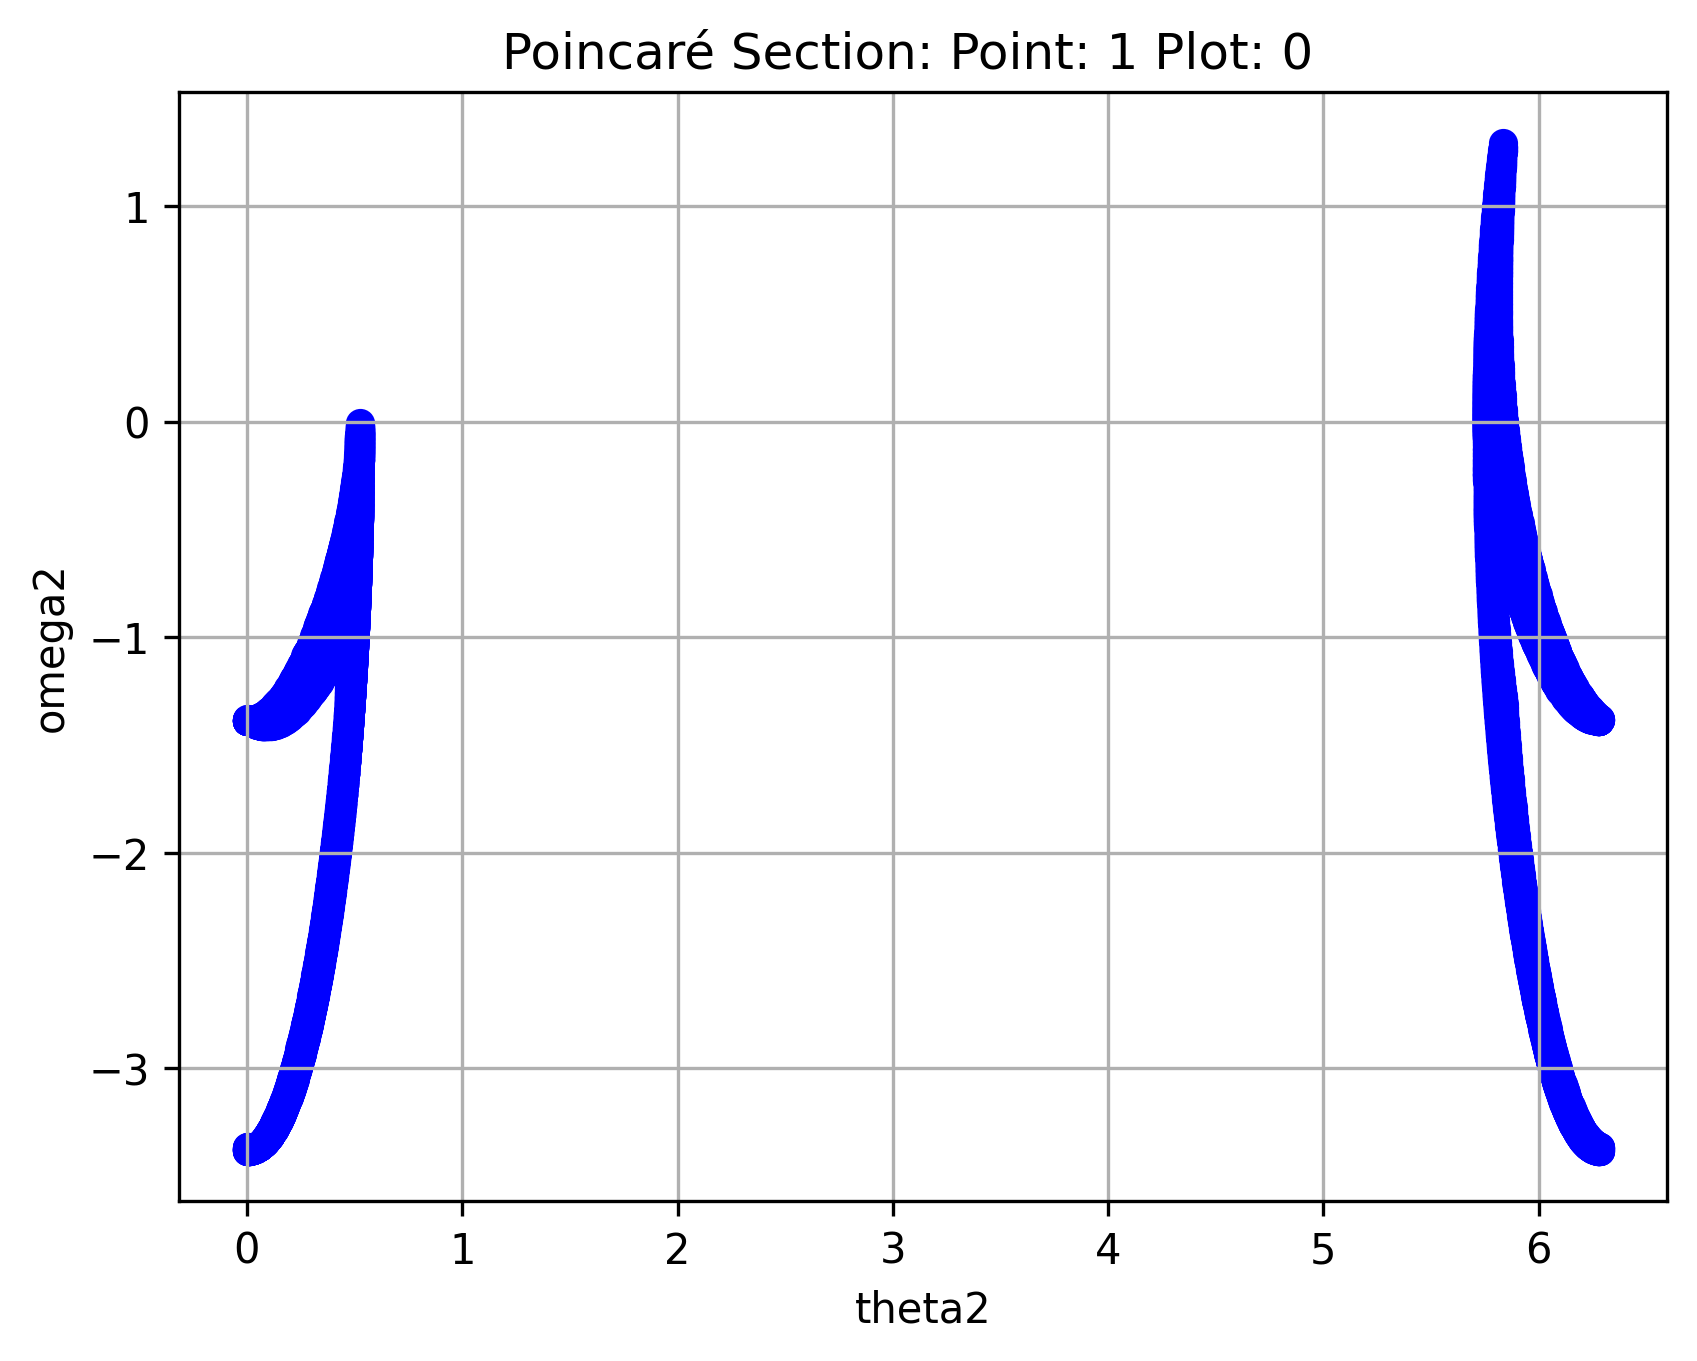
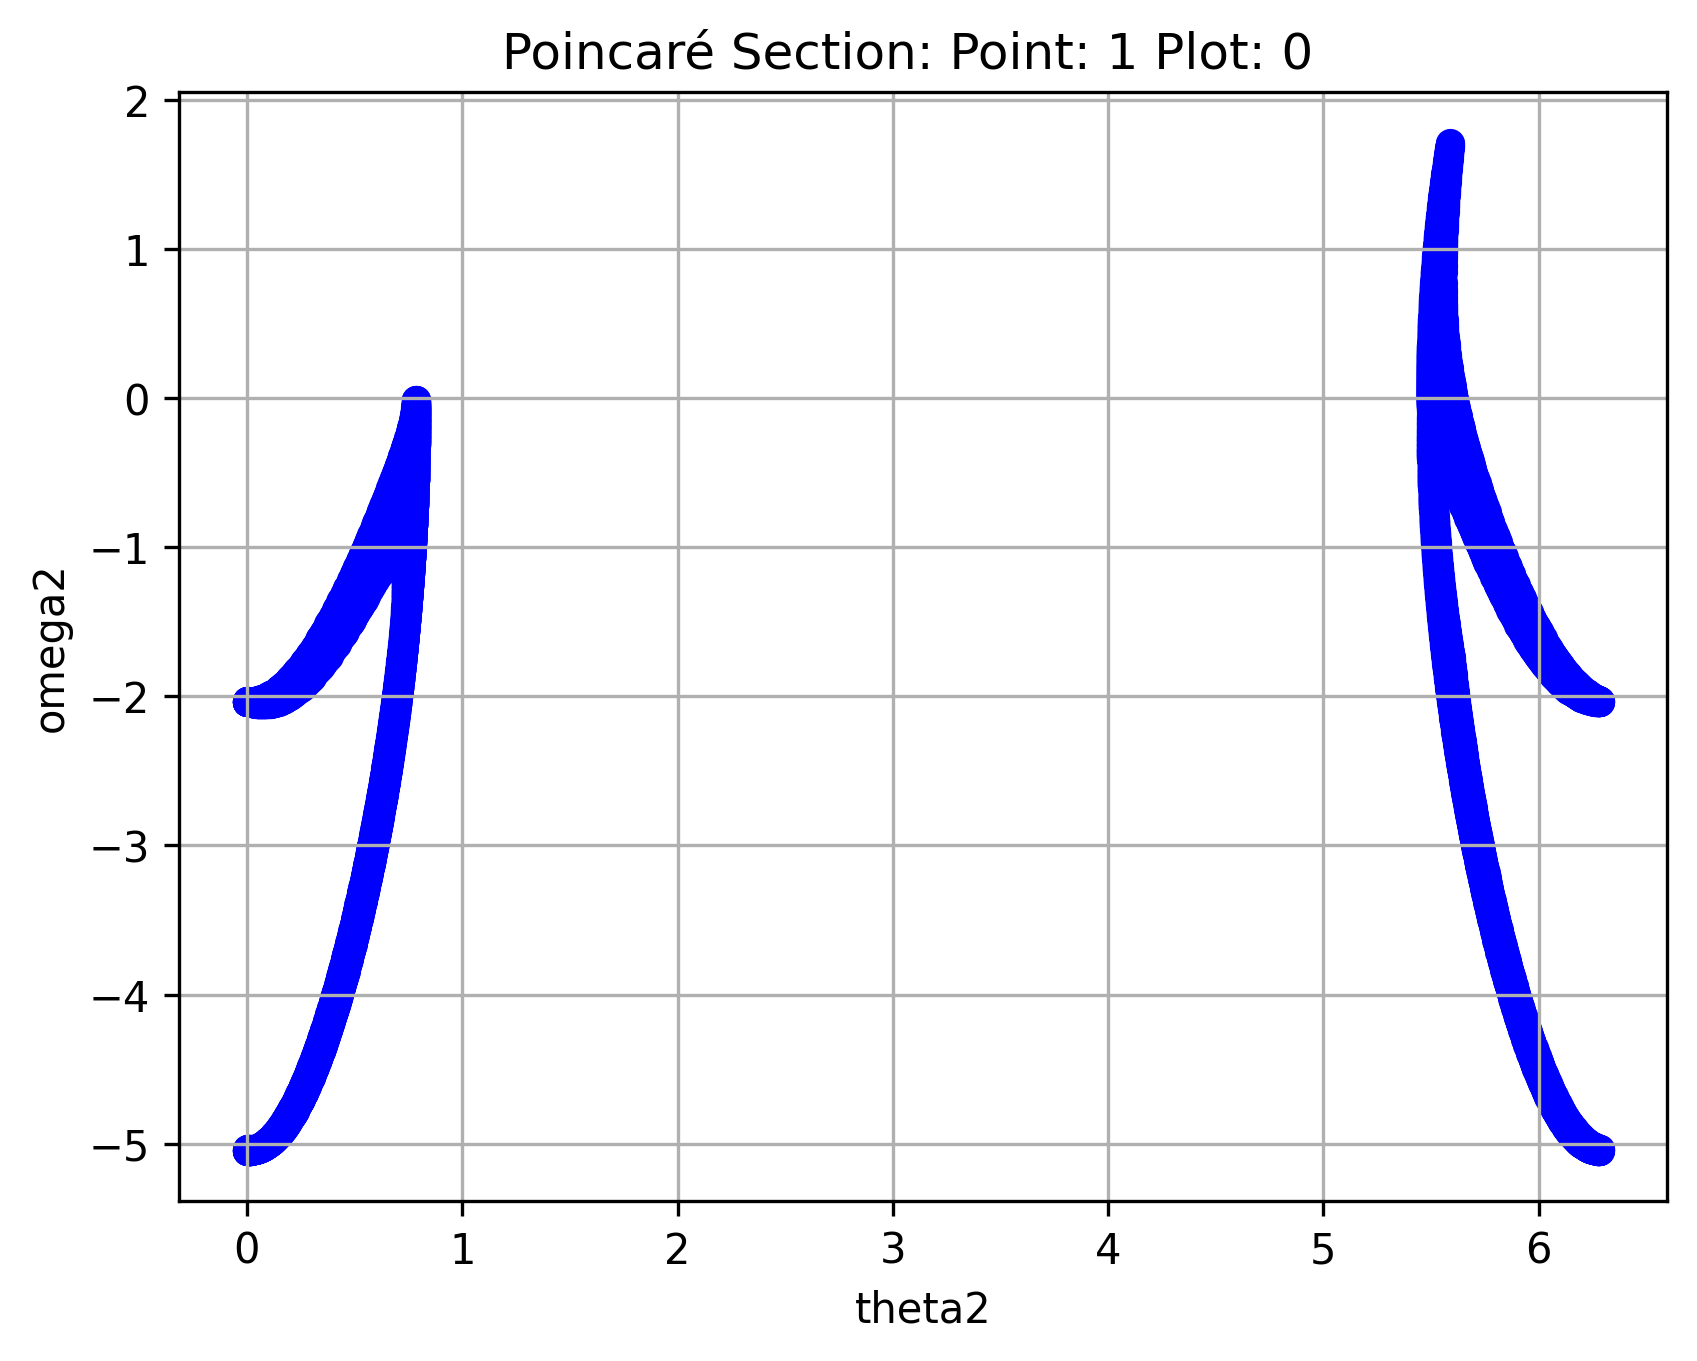
more part 3 stuff
perturbed_init generates sets of initial conditions perturbed around a fiducial set. then uses rk4 to find trajectories and saves to file. then computes distances between trajectories and fiducial trajectory and attempts to find lyapunov constant

diff --git a/part3Calculations/peturbed_init.py b/part3Calculations/peturbed_init.py
@@ -1,0 +1,178 @@
+import numpy as np 
+import os
+import sys
+import matplotlib.pyplot as plt
+
+
+# Add the parent directory to sys.path
+parent_dir = os.path.abspath(os.path.join(os.path.dirname(__file__), ".."))
+sys.path.append(parent_dir)
+
+from integrators import rk4, omegaDots 
+path = os.getcwd()
+
+
+
+def generate_nearby_points(fiducial, num_points, perturbation_scale=1e-3):
+    """
+    Generate nearby initial conditions around a fiducial point.
+
+        fiducial: array of initial conditions [theta1, theta2, omega1, omega2].
+        num_points: Number of nearby points to generate.
+        perturbation_scale: Magnitude of random perturbation.
+    """
+    print("generating nearby points...")
+    perturbations = np.random.uniform(
+        -perturbation_scale, perturbation_scale, size=(num_points, len(fiducial))
+    )
+    return fiducial + perturbations
+
+
+
+def get_traj(r0, num=10, e = 0.01):
+
+    """
+    evaluates the trajectories of the set of 11 initial conditions and writes them to results so we may plot them individually
+    """
+    p1 = generate_nearby_points(r0, num, e)
+    #print('p1',p1)
+
+    # Store trajectories for fiducial and nearby points
+    trajectories = []
+    count = 0
+    # Integrate the fiducial trajectory
+    fiducial_trajectory = rk4.rk4(tf=t_final, h=dt, f=f, r = r0)
+    trajectories.append(fiducial_trajectory)
+    np.savetxt( f'{path}/results/poincare_dat/1fid_rk4_{t_final}s_{r0[0]:.2f}_{r0[1]:.2f}_{r0[2]:.3f}_{r0[3]:.3f}_{dt*1e6}us_timesteps.csv', fiducial_trajectory, delimiter=',', header='theta1,theta2,omega1,omega2,t', comments='', fmt='%f')
+    #Integrate each nearby point
+    count += 1
+    for point in p1:
+        print(f'getting trajectory number {count} with rk4')
+        count += 1
+        traj = rk4.rk4(tf=t_final, h=dt, f=f, r=point)
+        trajectories.append(traj)
+        print("saving file: ", f'{path}/results/poincare_dat/1_rk4_{t_final}s_{point[0]:.2f}_{point[1]:.2f}_{point[2]:.3f}_{point[3]:.3f}_{dt*1e6}us_timesteps.csv')
+        np.savetxt( f'{path}/results/poincare_dat/1_rk4_{t_final}s_{point[0]:.2f}_{point[1]:.2f}_{point[2]:.3f}_{point[3]:.3f}_{dt*1e6}us_timesteps.csv', traj, delimiter=',', header='theta1,theta2,omega1,omega2,t', comments='', fmt='%f') 
+
+    return trajectories
+
+def compute_distances(trajectories, plot = False):
+    """
+    Compute distances between the fiducial trajectory and perturbed trajectories.
+
+    Returns:
+        np.ndarray: Array of distances [N, num_points].
+    """
+    print(f'getting distances and plotting')
+    perturbed_trajs = trajectories[1:]
+    fiducial_traj = trajectories[0]
+    time_vals = fiducial_traj.shape[0]
+
+    distances = []
+    for traj in perturbed_trajs:
+        # Compute Euclidean distance between fiducial and perturbed trajectory at each time step
+        distance = np.sqrt(np.sum((fiducial_traj - traj)**2, axis=1))
+        distances.append(distance)
+
+    if plot:
+        # Time vector
+        time_data = np.linspace(0, time_vals * dt, time_vals)  # Generate time values assuming a constant dt
+        for dist in distances:
+            plt.plot(time_data, dist)
+        plt.xlabel('Time (s)')
+        plt.ylabel('Distance')
+        plt.title('Distance between Fiducial and Perturbed Trajectories')
+        plt.show()
+
+    return distances
+
+from scipy.stats import linregress
+
+def compute_lyapunov_exponent(distances, dt, fit_start=0, fit_end=None, plot=True):
+    """
+    Compute the largest Lyapunov exponent using the growth rate of distances.
+
+    distances: List of arrays, where each array is the distance over time for one perturbed trajectory.
+    dt: Time step used in the integration.
+    fit_start: Index to start the fit (to exclude transient behavior).
+    fit_end: Index to end the fit (to avoid saturation).
+    plot: Whether to plot ln(distance) vs. time and the fit.
+
+    Returns:
+        lyapunov_exponents: List of estimated Lyapunov exponents for each perturbed trajectory.
+    """
+    time = np.arange(len(distances[0])) * dt
+    lyapunov_exponents = []
+
+    for distance in distances:
+        # Restrict to the fit region
+        log_distance = np.log(distance[fit_start:fit_end])
+        time_fit = time[fit_start:fit_end]
+
+        # Perform linear regression
+        slope, intercept, r_value, p_value, std_err = linregress(time_fit, log_distance)
+        lyapunov_exponents.append(slope)  # Slope corresponds to lambda
+
+        if plot:
+            plt.plot(time_fit, log_distance, label='ln(d(t))')
+            plt.plot(time_fit, slope * time_fit + intercept, label=f'Fit: λ = {slope:.3f}')
+            plt.xlabel('Time (s)')
+            plt.ylabel('ln(distance)')
+            plt.legend()
+            plt.title('Lyapunov Exponent Estimation')
+            plt.show()
+
+    return lyapunov_exponents
+
+
+
+#fiducial initial conditions for stationary point 1
+theta1=0
+theta2=np.pi/4
+omega1=0
+omega2=0
+t_final = 1000
+dt = .001
+f = rk4.f
+
+r1=np.array([ theta1  , theta2 , omega1, omega2], np.float64)
+trajectories = get_traj(r1)  # Assuming this function returns a list of fiducial and perturbed trajectories
+distances = compute_distances(trajectories) 
+
+fit_start = 100  # Skip initial transient
+fit_end = 1000   # Adjust as needed
+lyapunov_exponents = compute_lyapunov_exponent(distances, dt, fit_start=fit_start, fit_end=fit_end)
+print("Estimated Lyapunov exponents:", lyapunov_exponents)
+
+
+'''
+
+
+
+
+
+
+
+
+#fiducial initial conditions for stationary point 2
+theta1=0
+theta2=np.pi
+omega1=0
+omega2=0.1
+
+r2=np.array([ theta1  , theta2 , omega1, omega2], np.float64)
+p2 = generate_nearby_points(r2, 10, 0.01)
+print('p2',p2)
+
+
+#fiducial initial conditions for stationary point 3
+theta1=np.pi
+theta2=0
+omega1=0
+omega2=0.1
+
+r3=np.array([ theta1  , theta2 , omega1, omega2], np.float64)
+p3 = generate_nearby_points(r3, 10, 0.1)
+print('p3',p3)
+
+'''

diff --git a/part3Calculations/poincare1.py b/part3Calculations/poincare1.py
@@ -14,17 +14,27 @@ omega1=0
 omega2=0
 """
 
-fiducial =  np.loadtxt(f'{path}/results/part3_rk4_1000s_0.00_0.52_0.000_0.000_1000.0us_timesteps.csv', delimiter=',', skiprows=1)
-'''
-file1 = np.loadtxt(f'{path}/results/', delimiter=',', skiprows=1)
-file2 = np.loadtxt(f'{path}/results/', delimiter=',', skiprows=1)
-file3 = np.loadtxt(f'{path}/results/', delimiter=',', skiprows=1)
-file4 = np.loadtxt(f'{path}/results/', delimiter=',', skiprows=1)
-file5 = np.loadtxt(f'{path}/results/', delimiter=',', skiprows=1)
-file6 = np.loadtxt(f'{path}/results/', delimiter=',', skiprows=1)
-file7 = np.loadtxt(f'{path}/results/', delimiter=',', skiprows=1)
-file8 = np.loadtxt(f'{path}/results/', delimiter=',', skiprows=1)
-file9 = np.loadtxt(f'{path}/results/', delimiter=',', skiprows=1)
-file10 = np.loadtxt(f'{path}/results/', delimiter=',', skiprows=1)
-'''
+fiducial =  np.loadtxt(f'{path}/results/poincare_dat/1fid_rk4_1000s_0.00_0.79_0.000_0.000_1000.0us_timesteps.csv', delimiter=',', skiprows=1)
+
+file1 = np.loadtxt(f'{path}/results/poincare_dat/1_rk4_1000s_-0.00_0.79_0.007_-0.004_1000.0us_timesteps.csv', delimiter=',', skiprows=1)
+file2 = np.loadtxt(f'{path}/results/poincare_dat/1_rk4_1000s_-0.01_0.78_0.008_0.004_1000.0us_timesteps.csv', delimiter=',', skiprows=1)
+file3 = np.loadtxt(f'{path}/results/poincare_dat/1_rk4_1000s_-0.01_0.79_-0.005_0.001_1000.0us_timesteps.csv', delimiter=',', skiprows=1)
+file4 = np.loadtxt(f'{path}/results/poincare_dat/1_rk4_1000s_-0.01_0.79_0.000_-0.007_1000.0us_timesteps.csv', delimiter=',', skiprows=1)
+file5 = np.loadtxt(f'{path}/results/poincare_dat/1_rk4_1000s_-0.01_0.79_0.007_-0.003_1000.0us_timesteps.csv', delimiter=',', skiprows=1)
+file6 = np.loadtxt(f'{path}/results/poincare_dat/1_rk4_1000s_-0.01_0.79_0.009_0.005_1000.0us_timesteps.csv', delimiter=',', skiprows=1)
+file7 = np.loadtxt(f'{path}/results/poincare_dat/1_rk4_1000s_0.00_0.79_-0.010_-0.006_1000.0us_timesteps.csv', delimiter=',', skiprows=1)
+file8 = np.loadtxt(f'{path}/results/poincare_dat/1_rk4_1000s_0.00_0.80_0.008_0.001_1000.0us_timesteps.csv', delimiter=',', skiprows=1)
+file9 = np.loadtxt(f'{path}/results/poincare_dat/1_rk4_1000s_0.01_0.78_-0.004_-0.003_1000.0us_timesteps.csv', delimiter=',', skiprows=1)
+file10 = np.loadtxt(f'{path}/results/poincare_dat/1_rk4_1000s_0.01_0.79_-0.001_-0.009_1000.0us_timesteps.csv', delimiter=',', skiprows=1)
+
 poincare_section(fiducial, .4, 1,0)
+poincare_section(file1, .4, 1, 1)
+poincare_section(file2, .4, 1, 2)
+poincare_section(file3, .4, 1, 3)
+poincare_section(file4, .4, 1, 4)
+poincare_section(file5, .4, 1, 5)
+poincare_section(file6, .4, 1, 6)
+poincare_section(file7, .4, 1, 7)
+poincare_section(file8, .4, 1, 8)
+poincare_section(file9, .4, 1, 9)
+poincare_section(file10, .4, 1, 10)

diff --git a/integrators/rk4.py b/integrators/rk4.py
@@ -4,6 +4,7 @@ import math
 import matplotlib.pyplot as plt
 import os
 
+
 path='/Users/Krishna/Documents/repositories/the_one_true_double_pendulum'
 
 
